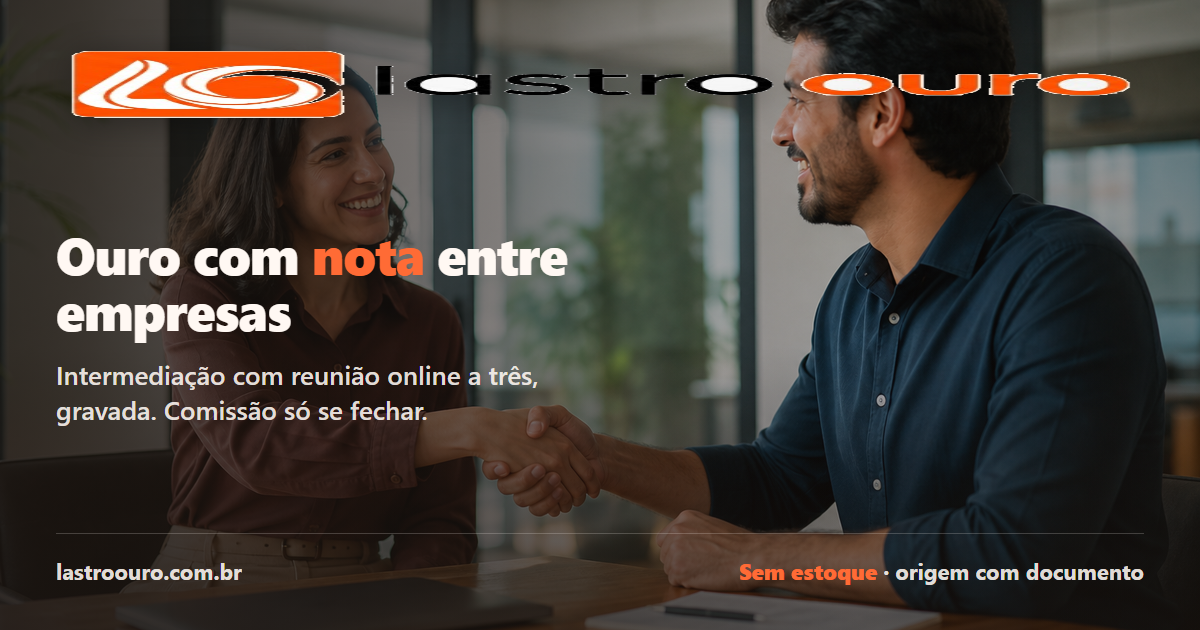
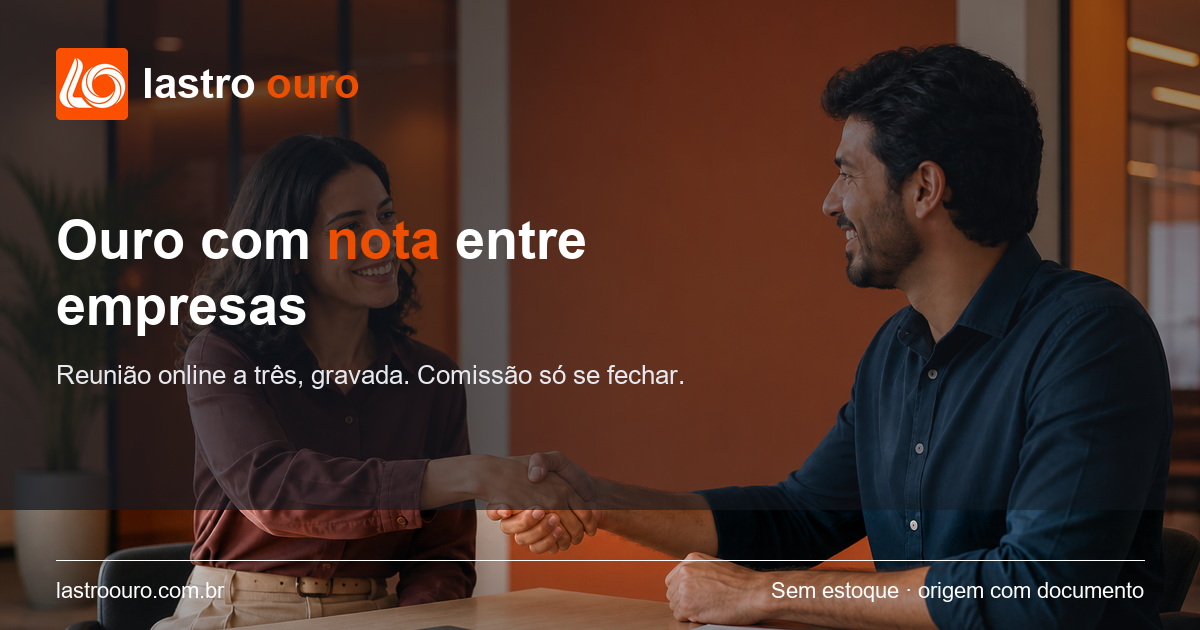
Corrige preview WhatsApp: capa OG quadrada sem letras esticadas.

diff --git a/index.html b/index.html
@@ -15,14 +15,14 @@
   <meta property="og:site_name" content="Lastro Ouro" />
   <meta property="og:title" content="Lastro Ouro · Intermediação de ouro com nota para empresas" />
   <meta property="og:description" content="Juntamos quem precisa comprar ouro e quem tem oferta com nota. Reunião online gravada. Comissão só se fechar. Sem estoque próprio." />
-  <meta property="og:image" content="https://lastroouro.com.br/assets/og-cover.png?v=2" />
+  <meta property="og:image" content="https://lastroouro.com.br/assets/og-cover-square.png?v=3" />
   <meta property="og:image:width" content="1200" />
-  <meta property="og:image:height" content="630" />
+  <meta property="og:image:height" content="1200" />
 
   <meta name="twitter:card" content="summary_large_image" />
   <meta name="twitter:title" content="Lastro Ouro · Intermediação de ouro com nota para empresas" />
   <meta name="twitter:description" content="Comprar ou vender ouro entre empresas, com nota e processo claro. Comissão só se fechar." />
-  <meta name="twitter:image" content="https://lastroouro.com.br/assets/og-cover.png?v=2" />
+  <meta name="twitter:image" content="https://lastroouro.com.br/assets/og-cover-square.png?v=3" />
 
   <link rel="icon" href="assets/favicon.ico" sizes="any" />
   <link rel="icon" type="image/png" sizes="32x32" href="assets/favicon-32.png" />
